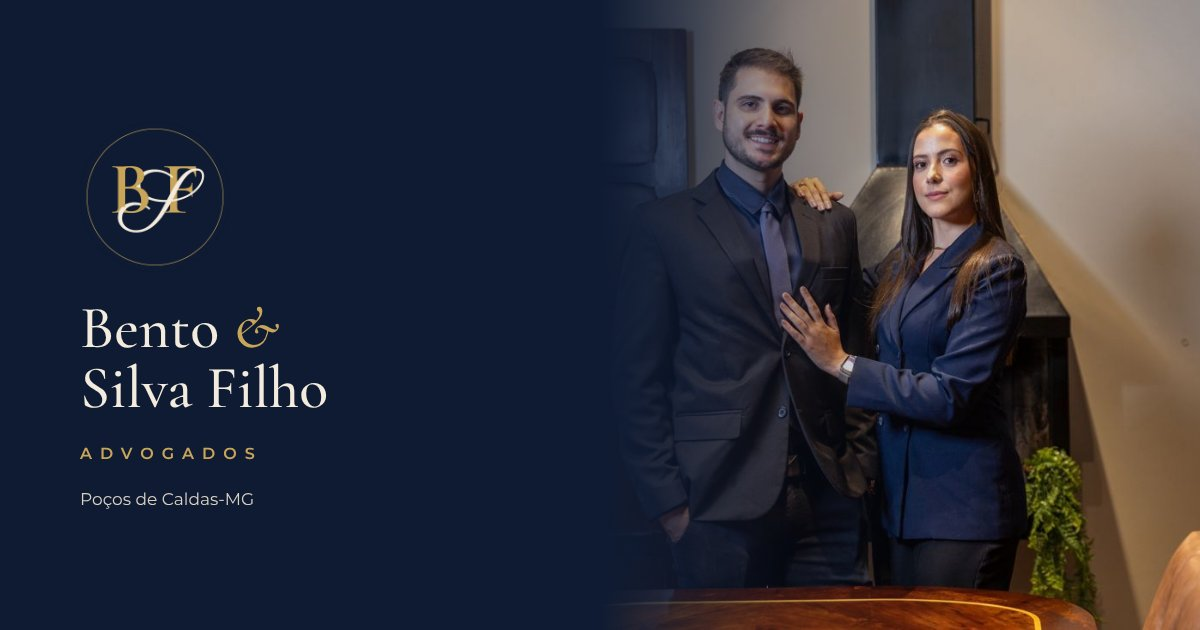
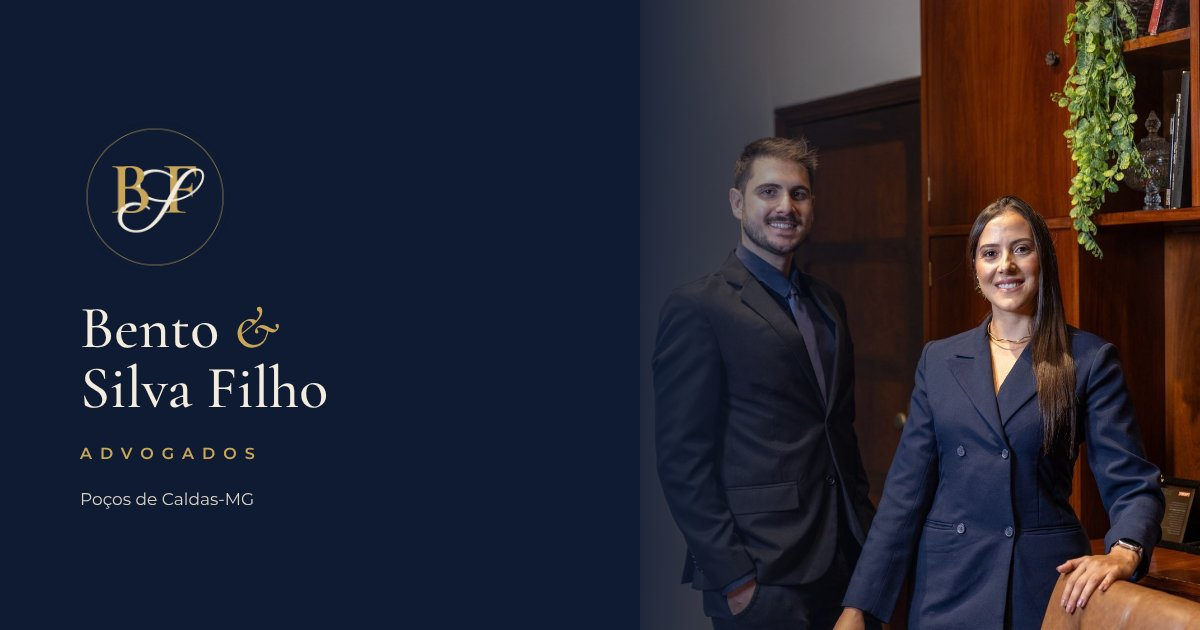
Novas fotos em formato original e remoção da galeria
Claude-Session: https://claude.ai/code/session_019yFdNPbXaqafi1aGd5nU4B

diff --git a/index.html b/index.html
@@ -116,10 +116,10 @@ section{scroll-margin-top:72px}
 
 /* Escritório */
 .office{display:grid;grid-template-columns:1fr 1.5fr;gap:56px;align-items:start}
-.office img{width:100%;max-width:440px;aspect-ratio:4/5;object-fit:cover;border-bottom:3px solid var(--gold);margin-top:10px}
+.office img{width:100%;max-width:440px;height:auto;border-bottom:3px solid var(--gold);margin-top:10px}
 .office .text{display:flex;flex-direction:column;gap:18px;color:#2E2E2E;max-width:62ch}
 .office .text p{margin:0}
-@media (max-width:760px){.office{grid-template-columns:1fr;gap:28px}}
+@media (max-width:760px){.office{grid-template-columns:1fr;gap:28px}.office img{max-width:100%}}
 
 /* Áreas */
 .areas{background:var(--white)}
@@ -137,18 +137,11 @@ section{scroll-margin-top:72px}
 @media (max-width:760px){.cta-band .btn{width:100%}}
 /* Advogados */
 .grid-team{display:grid;grid-template-columns:repeat(auto-fit,minmax(280px,1fr));gap:40px;margin-top:40px}
-.person img{width:100%;aspect-ratio:4/5;object-fit:cover;object-position:center top;border-bottom:3px solid var(--gold)}
+.person img{width:100%;height:auto;aspect-ratio:3/4;object-fit:cover;object-position:center 15%;border-bottom:3px solid var(--gold)}
 .person h3{font-weight:600;font-size:1.7rem;color:var(--navy);margin-top:18px}
 .person .oab{margin:2px 0 0;font-size:.85rem;color:#4A4A4A}
 .person p{margin:12px 0 0;font-size:.95rem;color:var(--text)}
 .person .wa{display:inline-flex;align-items:center;gap:8px;margin-top:14px;font-size:.85rem;font-weight:600;color:var(--gold-ink);text-decoration:none;border-bottom:1px solid currentColor}
-
-/* Rotina */
-.routine{background:var(--white)}
-.routine .wide{width:100%;aspect-ratio:21/9;object-fit:cover;object-position:left 30%;margin-top:40px}
-.gallery{display:grid;grid-template-columns:repeat(4,1fr);gap:14px;margin-top:14px}
-.gallery img{width:100%;aspect-ratio:4/5;object-fit:cover}
-@media (max-width:760px){.routine .wide{aspect-ratio:4/3}.gallery{grid-template-columns:repeat(2,1fr);gap:10px}}
 
 /* Contato */
 .contact{background:var(--navy);color:var(--cream)}
@@ -199,7 +192,6 @@ section{scroll-margin-top:72px}
       <a href="#escritorio">O ESCRITÓRIO</a>
       <a href="#atuacao">ATUAÇÃO</a>
       <a href="#advogados">ADVOGADOS</a>
-      <a href="#rotina">ROTINA</a>
       <a href="#contato" class="cta">CONTATO</a>
     </nav>
   </div>
@@ -226,7 +218,7 @@ section{scroll-margin-top:72px}
     <div class="stack">
       <div class="eyebrow">O escritório</div>
       <h2>Cada caso conduzido <em>de perto, do início ao fim.</em></h2>
-      <img src="img/dupla.jpg" alt="Paulo César Silva Filho e Heloísa G. Bento Ferreira no escritório" width="900" height="1351" loading="lazy">
+      <img src="img/dupla.jpg" alt="Paulo César Silva Filho e Heloísa G. Bento Ferreira no escritório" width="1000" height="1501" loading="lazy">
     </div>
     <div class="text">
       <p>O Bento &amp; Silva Filho Advogados reúne a atuação de Paulo César Silva Filho e Heloísa G. Bento Ferreira, advogados formados pela PUC Minas, com escritório em Poços de Caldas-MG e inscrição na OAB de Minas Gerais e de São Paulo.</p>
@@ -270,35 +262,19 @@ section{scroll-margin-top:72px}
     </div>
     <div class="grid-team">
       <article class="person">
-        <img src="img/paulo.jpg" alt="Paulo César Silva Filho" width="900" height="1350" loading="lazy">
+        <img src="img/paulo.jpg" alt="Paulo César Silva Filho" width="1000" height="1333" loading="lazy">
         <h3>Dr. Paulo César Silva Filho</h3>
         <p class="oab">Advogado · OAB/MG 210.883</p>
         <p>Graduado em Direito pela PUC Minas, com pós-graduações em Advocacia Contenciosa Cível, Direito Processual Civil e Direito Público. Atua no Direito do Consumidor, Responsabilidade Civil, Sucessões, Contratos e Execuções. Preside a Comissão de Esportes e Lazer da 25ª Subseção da OAB/MG.</p>
         <a class="wa" href="https://wa.me/5535988056692" data-track="whatsapp_paulo">WhatsApp (35) 98805-6692</a>
       </article>
       <article class="person">
-        <img src="img/heloisa.jpg" alt="Heloísa G. Bento Ferreira" width="900" height="1350" loading="lazy">
+        <img src="img/heloisa.jpg" alt="Heloísa G. Bento Ferreira" width="1000" height="1500" loading="lazy">
         <h3>Dr.ª Heloísa G. Bento Ferreira</h3>
         <p class="oab">Advogada · OAB/MG 225.014 · OAB/SP 463.498</p>
         <p>Graduada em Direito pela PUC Minas, com pós-graduações em Direito e Processo do Trabalho, Direito Processual Civil e Direito Público. Responsável pelas áreas de Direito do Trabalho e Direito de Família no escritório. Secretária da OAB Jovem e Presidente da Comissão de Cidadania e Ação Social de São Sebastião da Grama-SP.</p>
         <a class="wa" href="https://wa.me/5519982684698" data-track="whatsapp_heloisa">WhatsApp (19) 98268-4698</a>
       </article>
-    </div>
-  </div>
-</section>
-
-<section id="rotina" class="section routine">
-  <div class="wrap">
-    <div class="stack">
-      <div class="eyebrow">Rotina</div>
-      <h2>No escritório e <em>na advocacia.</em></h2>
-    </div>
-    <img class="wide" src="img/dupla_horizontal.jpg" alt="Paulo e Heloísa no escritório" width="1100" height="733" loading="lazy">
-    <div class="gallery">
-      <img src="img/dupla_evento.jpg" alt="Paulo e Heloísa em evento da advocacia" width="800" height="1067" loading="lazy" style="object-position:center 30%">
-      <img src="img/heloisa_celular.jpg" alt="Heloísa G. Bento Ferreira" width="733" height="1100" loading="lazy" style="object-position:center 35%">
-      <img src="img/paulo_poltrona.jpg" alt="Paulo César Silva Filho" width="800" height="1067" loading="lazy" style="object-position:center 30%">
-      <img src="img/heloisa_sofa.jpg" alt="Heloísa G. Bento Ferreira" width="800" height="533" loading="lazy" style="object-position:56% center">
     </div>
   </div>
 </section>
